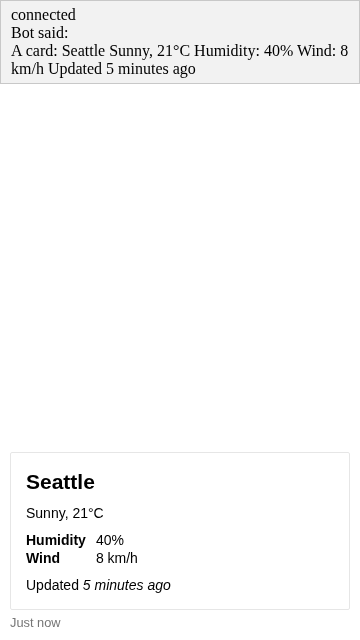
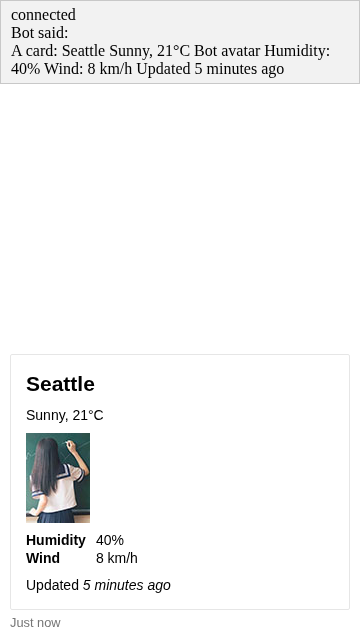
Read only visible Adaptive Card text and image alt text in the live region
Skip elements with isVisible: false (and their subtrees) when collecting the card text, and do not descend into actions.

Changed region(s): [[0.0611, 0.5938, 0.275, 0.8438], [0.0306, 0.0625, 0.9167, 0.125], [0.9472, 0.0625, 0.9778, 0.0938]]

diff --git a/__tests__/html2/accessibility/liveRegion/attachment/adaptiveCard.hiddenText.html b/__tests__/html2/accessibility/liveRegion/attachment/adaptiveCard.hiddenText.html
@@ -1,0 +1,102 @@
+<!doctype html>
+<html lang="en-US">
+  <head>
+    <link href="/assets/index.css" rel="stylesheet" type="text/css" />
+    <!-- Shows the live region, so the snapshot shows the copy sent to screen readers. -->
+    <link href="/assets/accessibility.liveRegionAttachment.css" rel="stylesheet" type="text/css" />
+  </head>
+  <body>
+    <main id="webchat"></main>
+    <script type="importmap">
+      {
+        "imports": {
+          "botframework-webchat": "/__dist__/packages/bundle/static/botframework-webchat.js",
+          "botframework-webchat/": "/__dist__/packages/bundle/static/botframework-webchat/",
+          "react": "/__dist__/packages/bundle/static/react.js",
+          "react-dom": "/__dist__/packages/bundle/static/react-dom.js",
+          "react-dom/client": "/__dist__/packages/bundle/static/react-dom/client.js"
+        }
+      }
+    </script>
+    <script type="module">
+      import '/test-harness.mjs';
+      import '/test-page-object.mjs';
+
+      import { createStoreWithOptions, ReactWebChat } from 'botframework-webchat';
+      import { createElement } from 'react';
+      import { createRoot } from 'react-dom/client';
+
+      // TODO: This is for `createDirectLineEmulator` only, should find ways to eliminate this line.
+      window.WebChat = { createStoreWithOptions };
+
+      run(async function () {
+        const { directLine, store } = testHelpers.createDirectLineEmulator();
+
+        // GIVEN: Web Chat keeps the live region copy of new messages, so it can be checked and seen in the snapshot.
+        createRoot(document.getElementById('webchat')).render(
+          createElement(ReactWebChat, {
+            directLine,
+            store,
+            styleOptions: { hideSendBox: true, internalLiveRegionFadeAfter: 60000 }
+          })
+        );
+
+        await pageConditions.uiConnected();
+
+        // WHEN: The bot sends an Adaptive Card without "speak", with a hidden text block, a hidden input, and a collapsed "show card" action.
+        await directLine.emulateIncomingActivity({
+          attachments: [
+            {
+              content: {
+                $schema: 'http://adaptivecards.io/schemas/adaptive-card.json',
+                actions: [
+                  {
+                    card: {
+                      body: [{ text: 'Hourly forecast', type: 'TextBlock' }], // Only shown after the action is clicked.
+                      type: 'AdaptiveCard'
+                    },
+                    title: 'Show more',
+                    type: 'Action.ShowCard'
+                  }
+                ],
+                body: [
+                  { text: 'Seattle', type: 'TextBlock' },
+                  { isVisible: false, text: 'Air quality: good', type: 'TextBlock' },
+                  { id: 'note', isVisible: false, label: 'Note', type: 'Input.Text' },
+                  {
+                    isVisible: false, // Hidden subtree: its text block is hidden too.
+                    items: [{ text: 'UV index: 3', type: 'TextBlock' }],
+                    type: 'Container'
+                  }
+                ],
+                type: 'AdaptiveCard',
+                version: '1.5'
+              },
+              contentType: 'application/vnd.microsoft.card.adaptive'
+            }
+          ],
+          from: { role: 'bot' },
+          type: 'message'
+        });
+
+        await pageConditions.numActivitiesShown(1);
+        await pageConditions.liveRegionStabilized();
+
+        const liveRegionActivity = pageElements.liveRegion().querySelector('.webchat__live-region-activity');
+
+        // THEN: The live region copy reads the visible text only, followed by the action button.
+        expect(testHelpers.getAllTextContents(liveRegionActivity).map(text => text.trim())).toEqual([
+          'Bot said:',
+          'A card: Seattle',
+          'Show more'
+        ]);
+
+        // THEN: The hidden input is not listed.
+        expect(liveRegionActivity.querySelectorAll('input')).toHaveLength(0);
+
+        // THEN: The live region shows "A card: Seattle" and the "Show more" button, without the hidden text and input.
+        await host.snapshot('local');
+      });
+    </script>
+  </body>
+</html>

diff --git a/packages/bundle/src/adaptiveCards/AttachmentForScreenReader/AdaptiveCardAttachment.js b/packages/bundle/src/adaptiveCards/AttachmentForScreenReader/AdaptiveCardAttachment.js
@@ -10,19 +10,22 @@ import useUniqueId from '../hooks/internal/useUniqueId';
 
 const { useLocalizer } = hooks;
 
-// Perform a depth-first search of the Adaptive Card tree.
+// Perform a depth-first search of the visible elements of the Adaptive Card tree, skipping hidden subtrees.
+// Actions are visited but not walked into, so the card of Action.ShowCard, hidden until opened, is not visited.
 function walkAllItems(node, fn) {
-  fn(node);
+  if (node.isVisible) {
+    fn(node);
 
-  if (node.getItemAt && node.getItemCount) {
-    for (let count = node.getItemCount(), index = 0; index < count; index++) {
-      walkAllItems(node.getItemAt(index), fn);
+    if (node.getItemAt && node.getItemCount) {
+      for (let count = node.getItemCount(), index = 0; index < count; index++) {
+        walkAllItems(node.getItemAt(index), fn);
+      }
     }
-  }
 
-  if (node.getActionAt && node.getActionCount) {
-    for (let count = node.getActionCount(), index = 0; index < count; index++) {
-      fn(node.getActionAt(index));
+    if (node.getActionAt && node.getActionCount) {
+      for (let count = node.getActionCount(), index = 0; index < count; index++) {
+        fn(node.getActionAt(index));
+      }
     }
   }
 }
@@ -71,6 +74,7 @@ const AdaptiveCardAttachment = ({ content }) => {
       ChoiceSetInput,
       DateInput,
       FactSet,
+      Image,
       NumberInput,
       OpenUrlAction,
       RichTextBlock,
@@ -117,18 +121,25 @@ const AdaptiveCardAttachment = ({ content }) => {
     ToggleInput
   ]);
 
-  // Without `speak`, the card is described by its text, in document order. Inputs and actions are listed separately below.
+  // Without `speak`, the card is described by its visible text, in document order. Inputs and actions are listed separately below.
   const text = useMemo(() => {
-    const texts = [];
+    const nodes = [];
 
-    walkAllItems(card, node =>
-      node instanceof FactSet
-        ? texts.push(...node.facts.map(({ name, value }) => [name, value].filter(Boolean).join(': ')))
-        : (node instanceof RichTextBlock || node instanceof TextBlock) && texts.push(node.asString())
-    );
+    walkAllItems(card, node => nodes.push(node));
 
-    return texts.filter(Boolean).join(' ');
-  }, [card, FactSet, RichTextBlock, TextBlock]);
+    return nodes
+      .flatMap(node =>
+        node instanceof FactSet
+          ? node.facts.map(({ name, value }) => [name, value].filter(Boolean).join(': '))
+          : node instanceof Image
+            ? [node.altText]
+            : node instanceof RichTextBlock || node instanceof TextBlock
+              ? [node.asString()]
+              : []
+      )
+      .filter(Boolean)
+      .join(' ');
+  }, [card, FactSet, Image, RichTextBlock, TextBlock]);
 
   const cardLabel = localize('ATTACHMENT_CARD', card.speak || text, '', '');
 

diff --git a/__tests__/html2/accessibility/liveRegion/attachment/adaptiveCard.text.html b/__tests__/html2/accessibility/liveRegion/attachment/adaptiveCard.text.html
@@ -52,6 +52,7 @@
                 body: [
                   { style: 'heading', text: 'Seattle', type: 'TextBlock' },
                   { text: 'Sunny, 21°C', type: 'TextBlock' },
+                  { altText: 'Bot avatar', type: 'Image', url: '/assets/bot-avatar.jpg' },
                   {
                     facts: [
                       { title: 'Humidity', value: '40%' },
@@ -78,14 +79,18 @@
         });
 
         await pageConditions.numActivitiesShown(1);
+        await pageConditions.allImagesLoaded();
         await pageConditions.liveRegionStabilized();
 
-        // THEN: The live region copy describes the card by its text, in document order: text blocks, facts as "title: value", and rich text.
+        // THEN: The live region copy describes the card by its text, in document order: text blocks, image alt text, facts as "title: value", and rich text.
         expect(
           testHelpers
             .getAllTextContents(pageElements.liveRegion().querySelector('.webchat__live-region-activity'))
             .map(text => text.trim())
-        ).toEqual(['Bot said:', 'A card: Seattle Sunny, 21°C Humidity: 40% Wind: 8 km/h Updated 5 minutes ago']);
+        ).toEqual([
+          'Bot said:',
+          'A card: Seattle Sunny, 21°C Bot avatar Humidity: 40% Wind: 8 km/h Updated 5 minutes ago'
+        ]);
 
         // THEN: The live region shows "A card:" followed by the card text.
         await host.snapshot('local');
